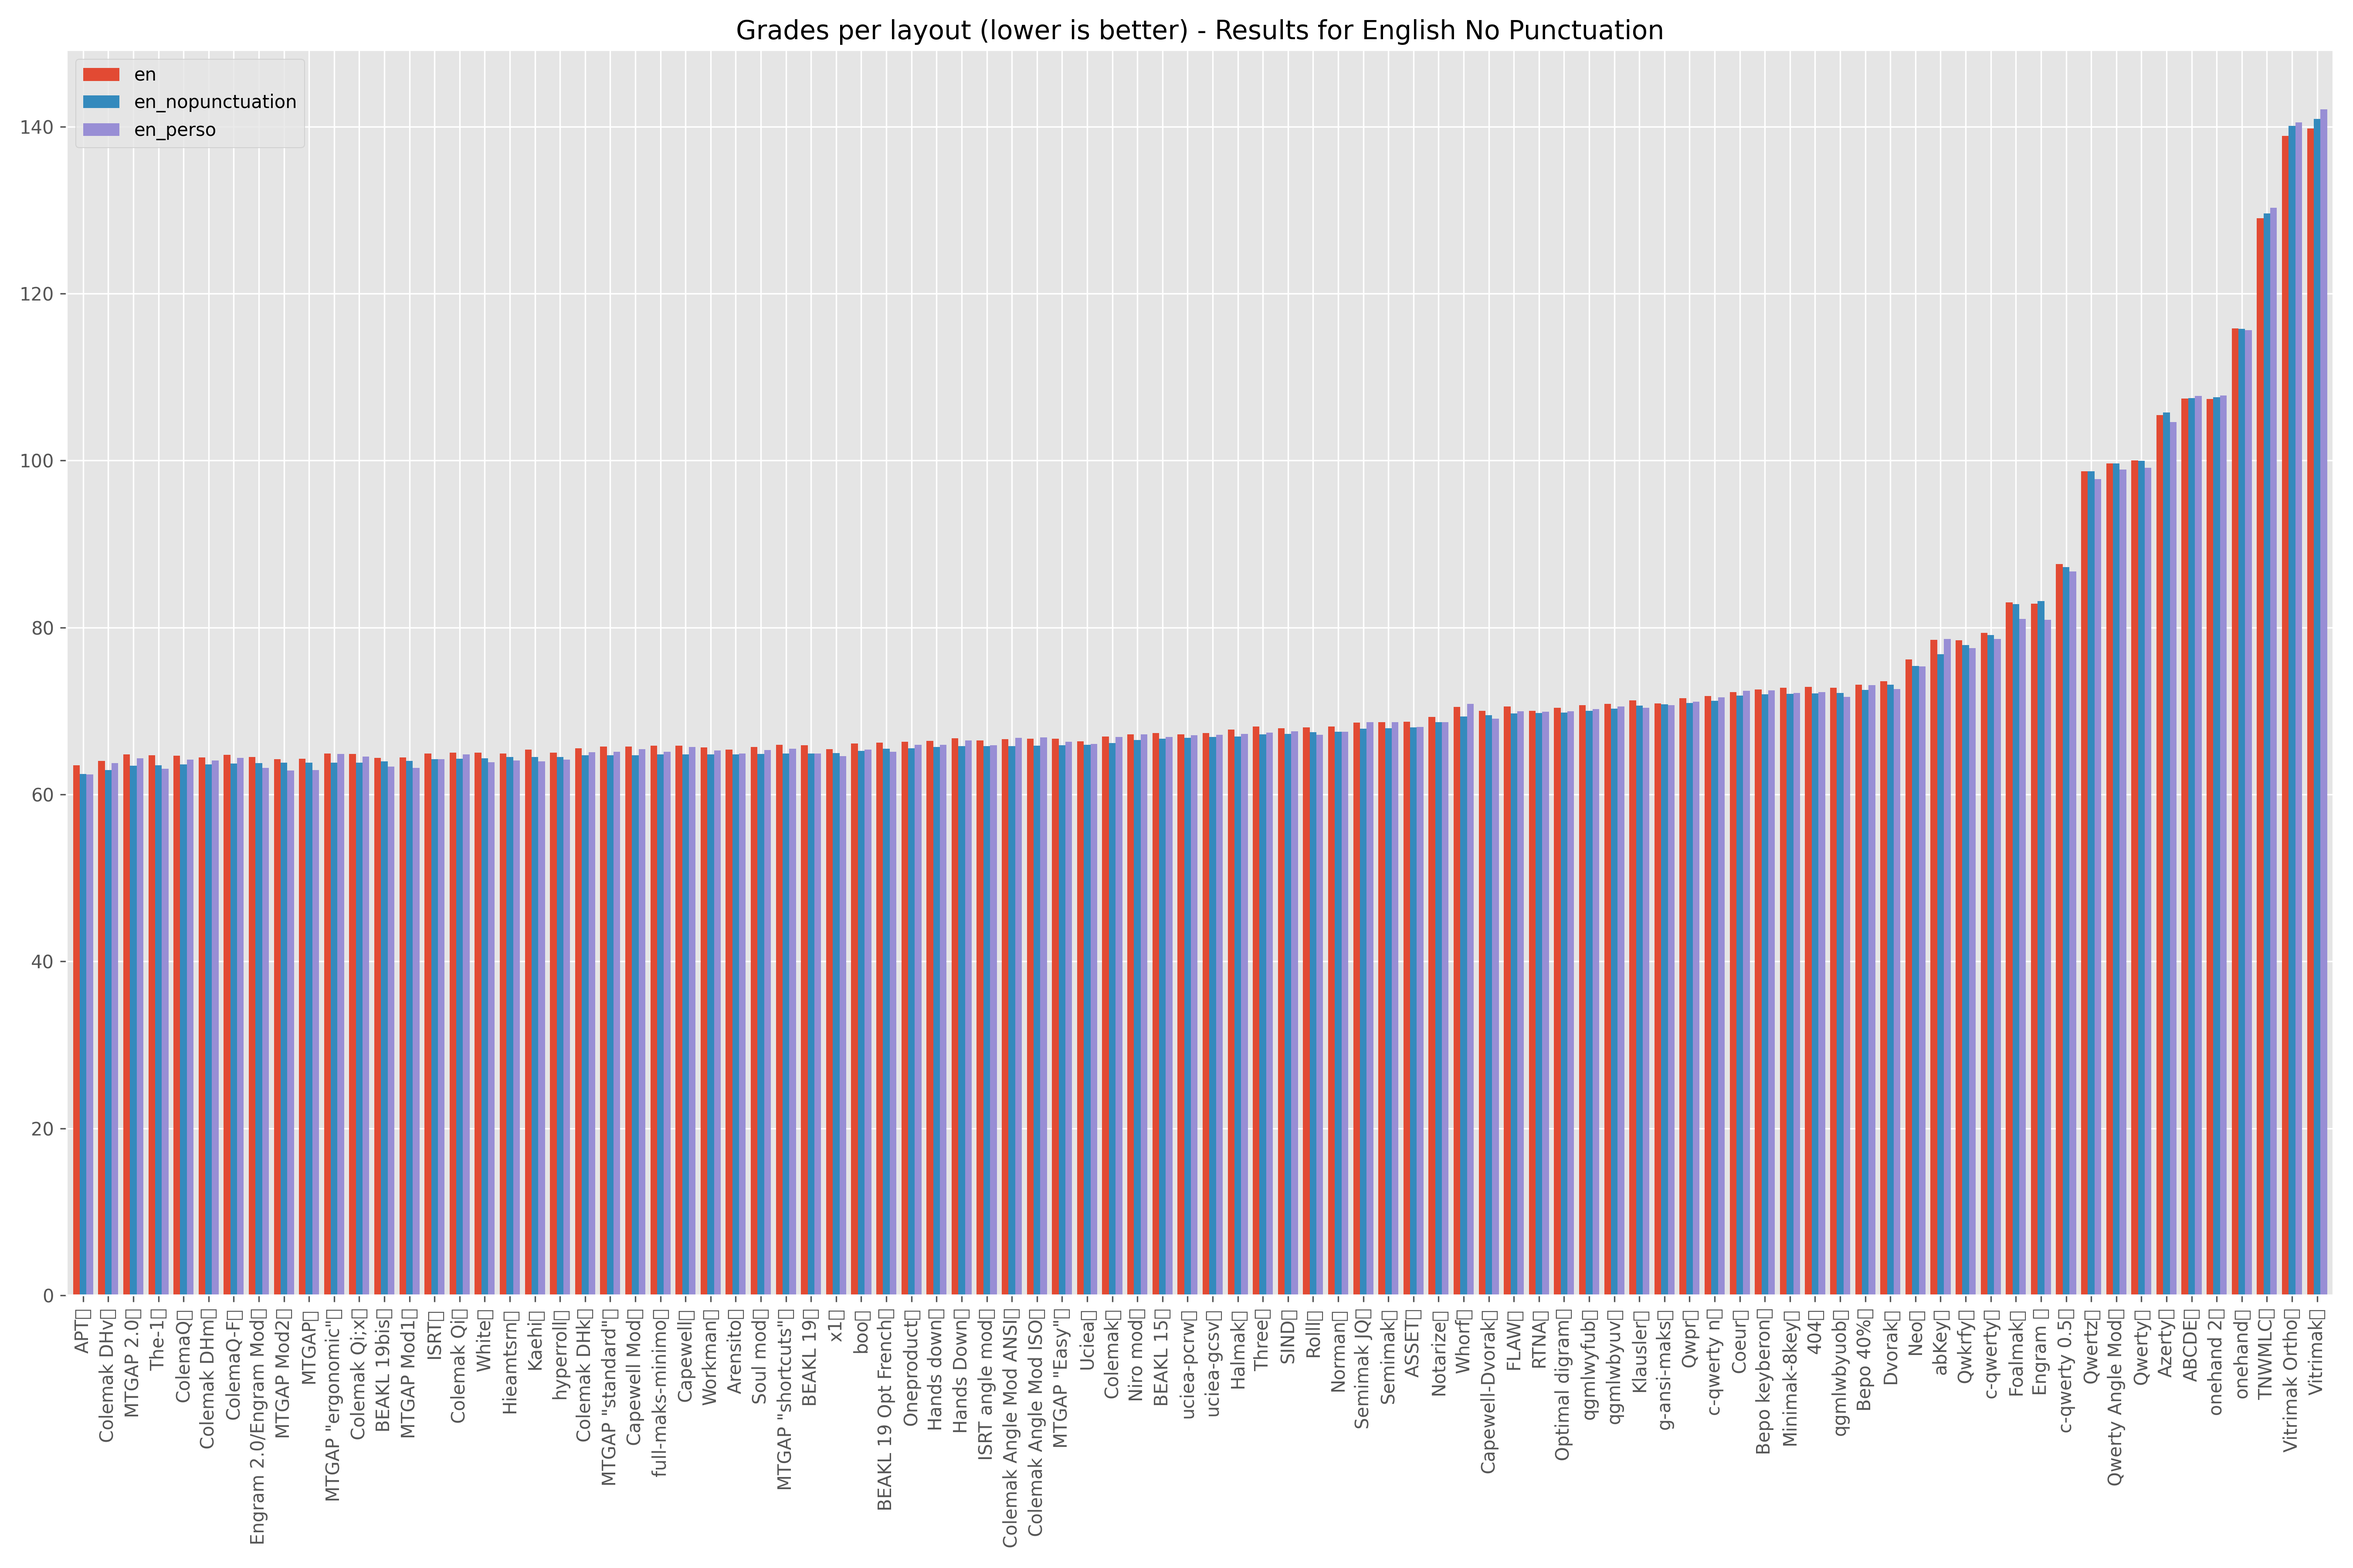
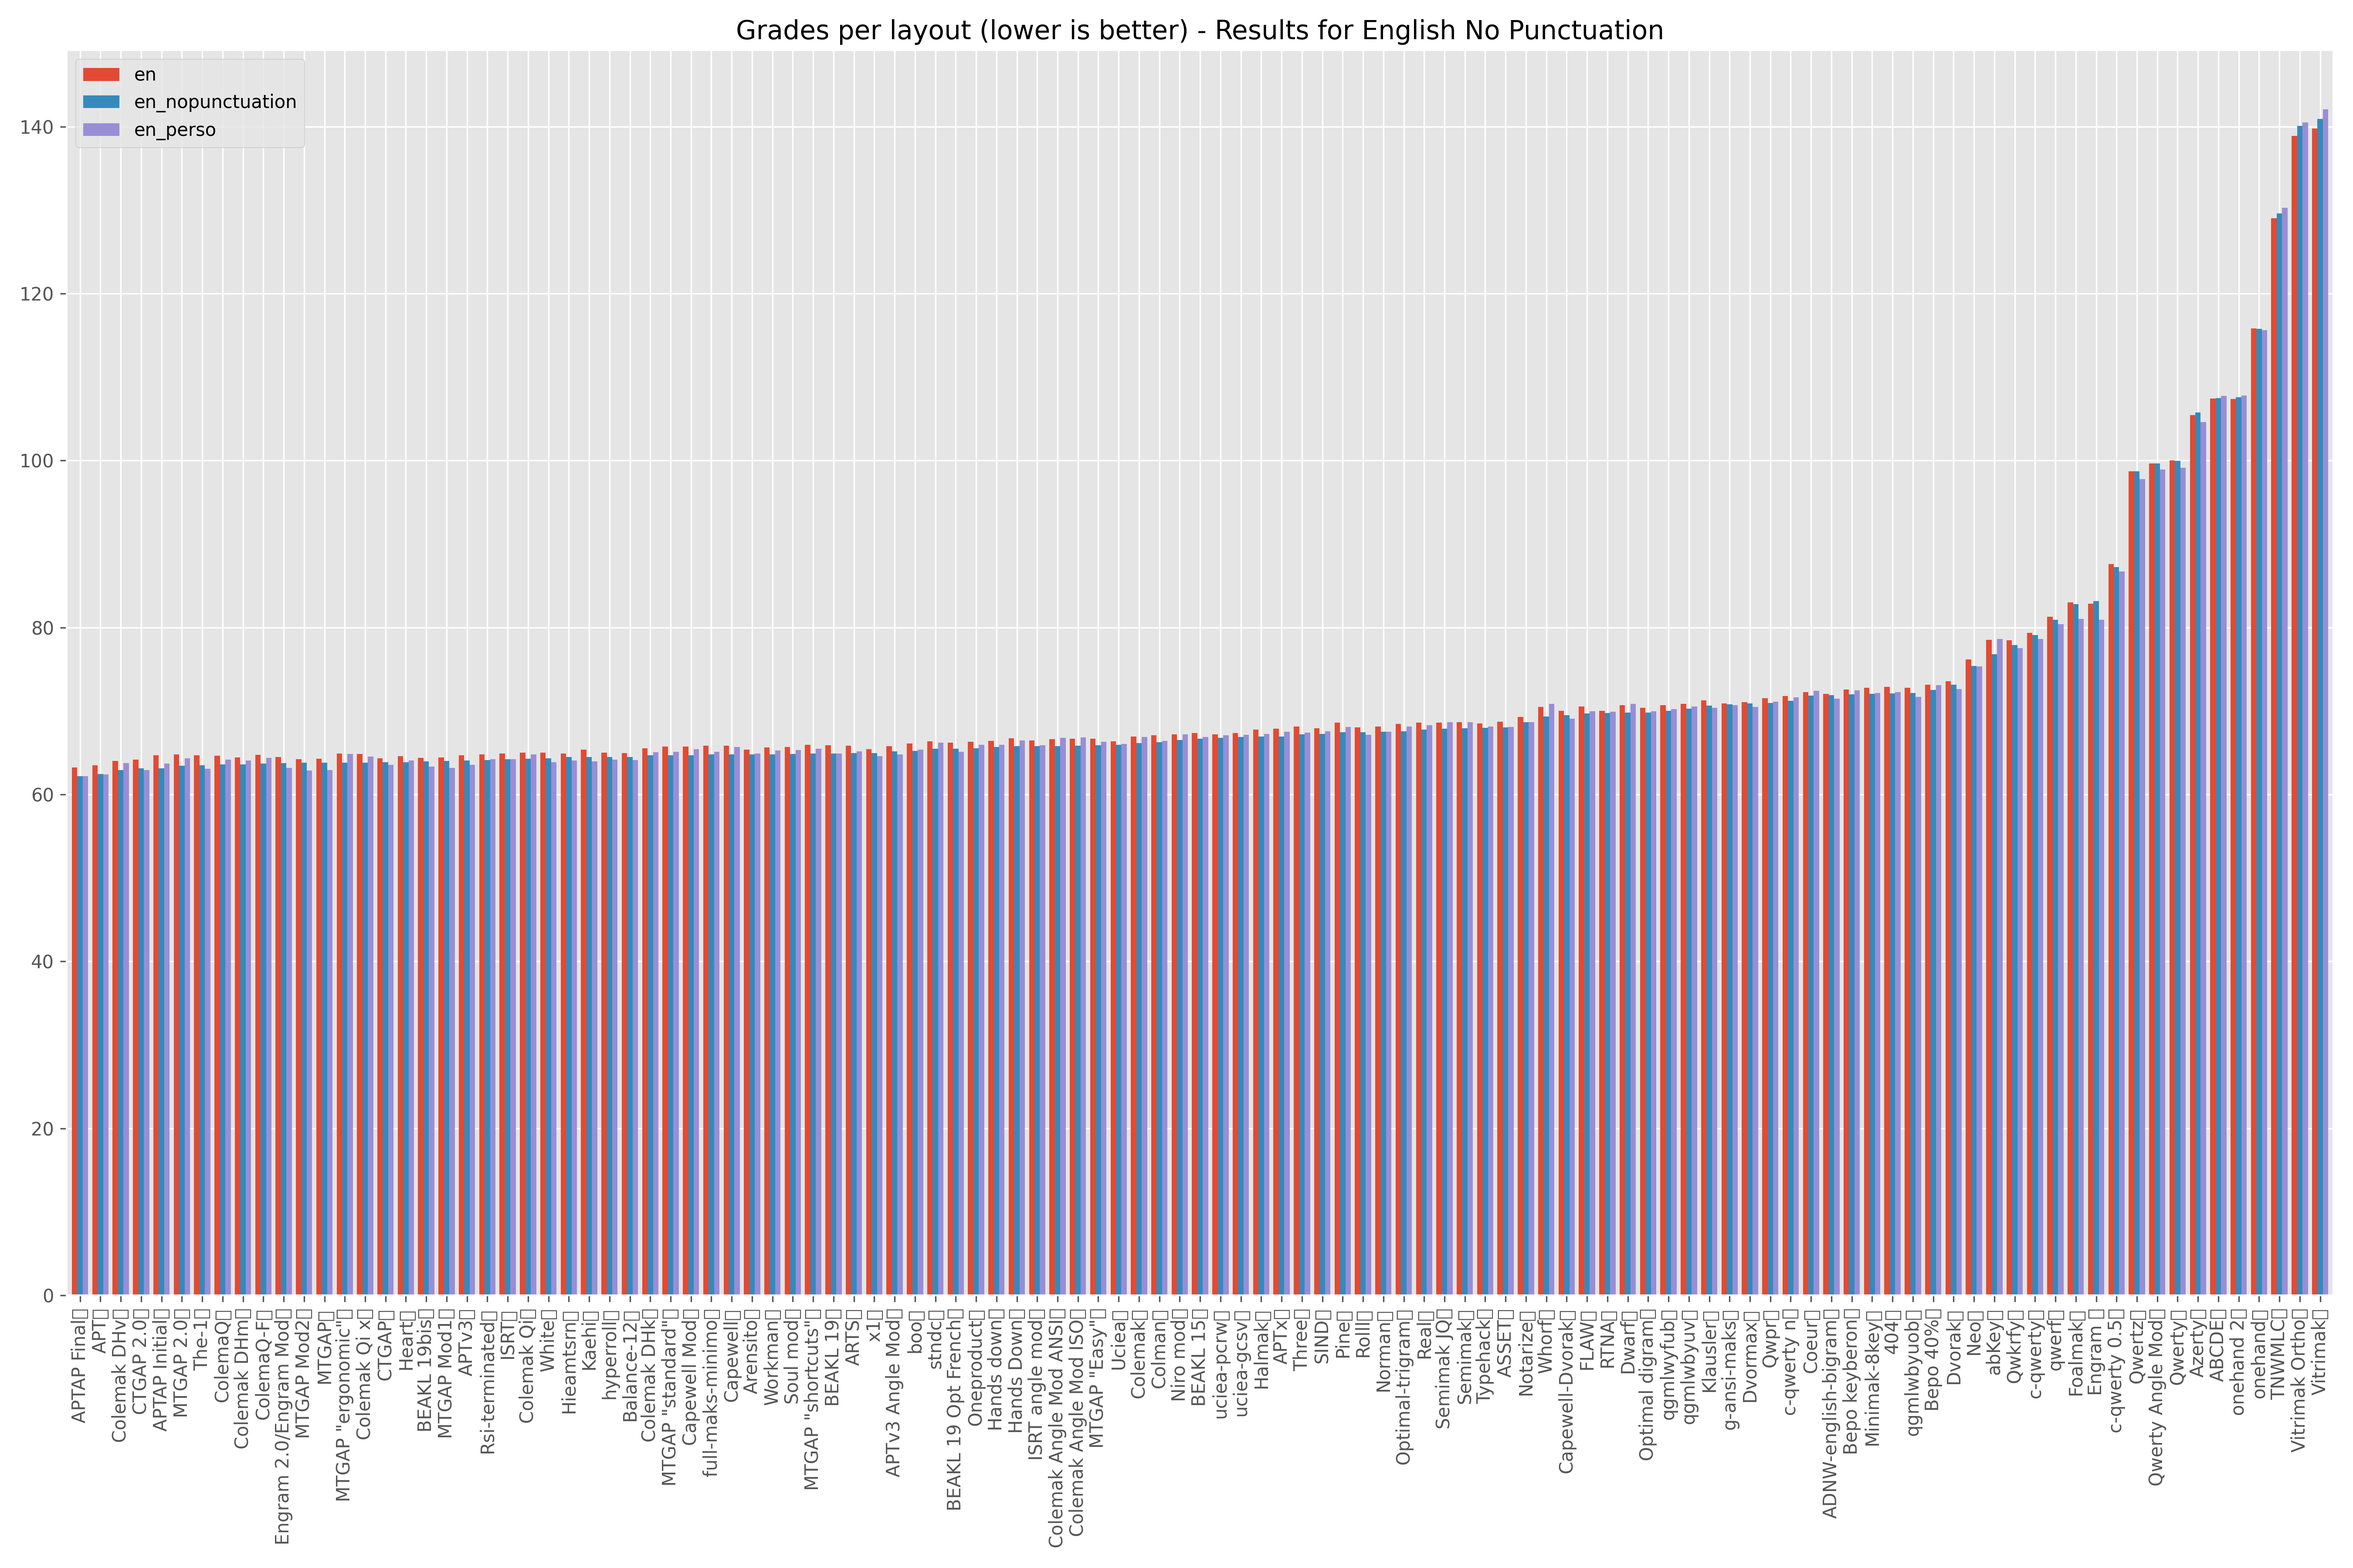
Add more layouts

diff --git a/README.md b/README.md
@@ -232,24 +232,32 @@ Here is the complete results list. The layouts can be seen in `config.txt`.
 
 | Layout | English | English perso | English No Punctuation | English Avg | French | French perso | Spanish | German | Swedish | Full Avg |
 | :-------------------------------------------------------------------------------------------------------------------------------------------- | ------: | ------------: | -----: | -----------: | ------: | -----: | ------: | ------: | ------: | ------: |
+| APTAP Final | 63.23 | 62.20 | 62.20 | 62.543333 | 65.27 | 65.64 | 65.48 | 63.55 | 65.28 | 64.461667 |
 | APT | 63.50 | 62.43 | 62.47 | 62.800000 | 65.84 | 66.41 | 65.94 | 63.26 | 65.79 | 64.783000 |
 | Colemak DHv | 64.04 | 63.75 | 62.94 | 63.576667 | 63.78 | 63.53 | 63.28 | 64.65 | 67.05 | 64.442333 |
+| CTGAP 2.0 | 64.17 | 62.92 | 63.13 | 63.406667 | 66.02 | 66.49 | 66.76 | 65.69 | 67.05 | 65.832333 |
 | MTGAP Mod2 | 64.23 | 62.88 | 63.80 | 63.636667 | 65.92 | 65.99 | 66.32 | 67.33 | 67.56 | 66.160333 |
 | MTGAP | 64.26 | 62.91 | 63.80 | 63.656667 | 66.21 | 66.29 | 66.32 | 67.33 | 67.56 | 66.223333 |
+| CTGAP | 64.36 | 63.56 | 63.85 | 63.923333 | 65.06 | 64.45 | 65.12 | 66.57 | 67.90 | 65.653667 |
 | BEAKL 19bis | 64.41 | 63.36 | 63.97 | 63.913333 | 65.14 | 64.31 | 64.62 | 68.10 | 69.18 | 66.107667 |
 | Colemak DHm | 64.45 | 64.08 | 63.61 | 64.046667 | 64.33 | 64.30 | 64.35 | 64.87 | 68.34 | 65.184333 |
 | MTGAP Mod1 | 64.46 | 63.17 | 64.03 | 63.886667 | 66.73 | 67.09 | 67.26 | 67.72 | 67.65 | 66.685333 |
 | Engram 2.0/Engram Mod | 64.47 | 63.17 | 63.78 | 63.806667 | 67.66 | 67.41 | 66.70 | 69.30 | 69.65 | 67.398333 |
+| Heart | 64.60 | 64.05 | 63.86 | 64.170000 | 69.00 | 69.27 | 67.63 | 67.47 | 67.16 | 67.113000 |
 | ColemaQ | 64.66 | 64.18 | 63.58 | 64.140000 | 64.56 | 64.49 | 64.35 | 64.79 | 68.08 | 65.177000 |
+| APTv3 | 64.70 | 63.56 | 64.08 | 64.113333 | 65.99 | 66.58 | 66.74 | 64.85 | 66.03 | 65.603667 |
+| APTAP Initial | 64.70 | 63.70 | 63.13 | 63.843333 | 67.22 | 67.82 | 66.94 | 63.66 | 65.23 | 65.438667 |
 | The-1 | 64.70 | 63.06 | 63.49 | 63.750000 | 69.47 | 69.17 | 69.15 | 67.71 | 70.45 | 68.076000 |
 | ColemaQ-F | 64.75 | 64.37 | 63.70 | 64.273333 | 64.53 | 64.59 | 64.16 | 64.36 | 67.62 | 64.994667 |
+| Rsi-terminated | 64.81 | 64.21 | 64.11 | 64.376667 | 64.56 | 64.21 | 63.67 | 66.20 | 67.64 | 65.254333 |
 | MTGAP 2.0 | 64.83 | 64.34 | 63.46 | 64.210000 | 63.83 | 62.94 | 64.18 | 65.15 | 66.95 | 64.775000 |
-| Colemak Qi;x | 64.87 | 64.54 | 63.84 | 64.416667 | 64.93 | 64.53 | 64.68 | 64.44 | 67.98 | 65.249333 |
-| Hieamtsrn | 64.90 | 64.07 | 64.48 | 64.483333 | 67.00 | 66.28 | 66.03 | 67.42 | 68.48 | 66.610667 |
+| Colemak Qi x | 64.87 | 64.54 | 63.84 | 64.416667 | 64.93 | 64.53 | 64.68 | 64.44 | 67.98 | 65.249333 |
 | MTGAP "ergonomic" | 64.90 | 64.85 | 63.83 | 64.526667 | 65.94 | 65.98 | 64.98 | 66.41 | 66.90 | 65.755333 |
+| Hieamtsrn | 64.90 | 64.07 | 64.48 | 64.483333 | 67.00 | 66.28 | 66.03 | 67.42 | 68.48 | 66.610667 |
 | ISRT | 64.93 | 64.22 | 64.22 | 64.456667 | 63.76 | 63.03 | 63.27 | 65.07 | 65.72 | 64.382333 |
-| hyperroll | 65.01 | 64.20 | 64.51 | 64.573333 | 66.40 | 65.56 | 66.49 | 68.09 | 69.26 | 66.878667 |
+| Balance-12 | 64.94 | 64.14 | 64.51 | 64.530000 | 67.02 | 66.21 | 65.97 | 67.29 | 68.67 | 66.615000 |
 | White | 65.01 | 63.88 | 64.35 | 64.413333 | 70.24 | 71.06 | 68.27 | 66.68 | 69.73 | 67.948667 |
+| hyperroll | 65.01 | 64.20 | 64.51 | 64.573333 | 66.40 | 65.56 | 66.49 | 68.09 | 69.26 | 66.878667 |
 | Colemak Qi | 65.02 | 64.78 | 64.26 | 64.686667 | 65.40 | 65.12 | 65.69 | 64.80 | 68.45 | 65.777333 |
 | Kaehi | 65.36 | 63.95 | 64.50 | 64.603333 | 66.10 | 65.62 | 66.09 | 68.01 | 68.12 | 66.536667 |
 | Arensito | 65.39 | 64.92 | 64.82 | 65.043333 | 65.03 | 64.21 | 66.23 | 65.81 | 69.08 | 66.156667 |
@@ -259,13 +267,16 @@ Here is the complete results list. The layouts can be seen in `config.txt`.
 | Soul mod | 65.69 | 65.31 | 64.84 | 65.280000 | 65.79 | 65.33 | 64.88 | 64.55 | 68.55 | 65.764000 |
 | Capewell Mod | 65.75 | 65.45 | 64.71 | 65.303333 | 65.53 | 64.71 | 65.97 | 67.04 | 67.80 | 66.246667 |
 | MTGAP "standard" | 65.76 | 65.14 | 64.69 | 65.196667 | 65.11 | 64.57 | 64.60 | 66.95 | 66.91 | 65.699333 |
-| full-maks-minimo | 65.84 | 65.10 | 64.78 | 65.240000 | 67.87 | 67.55 | 68.45 | 67.98 | 67.46 | 67.368000 |
+| APTv3 Angle Mod | 65.78 | 64.80 | 65.17 | 65.250000 | 67.32 | 67.40 | 68.46 | 65.53 | 65.60 | 66.440000 |
 | Capewell | 65.84 | 65.68 | 64.79 | 65.436667 | 65.47 | 64.62 | 66.02 | 67.06 | 67.95 | 66.302333 |
+| full-maks-minimo | 65.84 | 65.10 | 64.78 | 65.240000 | 67.87 | 67.55 | 68.45 | 67.98 | 67.46 | 67.368000 |
+| ARTS | 65.87 | 65.18 | 64.95 | 65.333333 | 68.23 | 68.53 | 68.94 | 65.51 | 68.50 | 67.332667 |
 | BEAKL 19 | 65.89 | 64.89 | 64.92 | 65.233333 | 66.21 | 64.90 | 66.30 | 67.17 | 69.04 | 66.659667 |
 | MTGAP "shortcuts" | 65.94 | 65.49 | 64.91 | 65.446667 | 64.44 | 64.14 | 62.88 | 65.61 | 66.52 | 64.949333 |
 | boo | 66.13 | 65.39 | 65.22 | 65.580000 | 66.84 | 66.14 | 65.55 | 67.74 | 68.77 | 66.826000 |
 | BEAKL 19 Opt French | 66.23 | 65.13 | 65.49 | 65.616667 | 65.81 | 64.69 | 66.02 | 65.48 | 69.50 | 66.373333 |
 | Oneproduct | 66.32 | 65.93 | 65.55 | 65.933333 | 69.27 | 69.06 | 68.25 | 68.63 | 69.40 | 68.275667 |
+| stndc | 66.37 | 66.21 | 65.46 | 66.013333 | 68.81 | 70.25 | 66.51 | 65.30 | 66.04 | 66.678667 |
 | Uciea | 66.39 | 66.08 | 65.94 | 66.136667 | 65.90 | 65.79 | 65.19 | 66.16 | 68.50 | 66.366333 |
 | Hands down | 66.43 | 65.97 | 65.68 | 66.026667 | 65.05 | 63.98 | 66.27 | 63.31 | 66.83 | 65.390333 |
 | ISRT angle mod | 66.48 | 65.89 | 65.79 | 66.053333 | 64.89 | 64.22 | 64.72 | 66.57 | 67.32 | 65.843667 |
@@ -274,16 +285,22 @@ Here is the complete results list. The layouts can be seen in `config.txt`.
 | Colemak Angle Mod ISO | 66.70 | 66.82 | 65.87 | 66.463333 | 65.09 | 64.44 | 65.77 | 67.19 | 68.32 | 66.501667 |
 | Hands Down | 66.71 | 66.46 | 65.78 | 66.316667 | 63.48 | 62.16 | 65.33 | 65.44 | 68.37 | 65.655333 |
 | Colemak | 66.96 | 66.87 | 66.14 | 66.656667 | 64.88 | 64.08 | 65.54 | 67.95 | 69.01 | 66.727333 |
+| Colman | 67.12 | 66.40 | 66.28 | 66.600000 | 68.59 | 68.26 | 69.22 | 69.66 | 72.89 | 69.359000 |
 | uciea-pcrw | 67.19 | 67.09 | 66.78 | 67.020000 | 66.25 | 65.97 | 66.24 | 66.79 | 68.98 | 67.028000 |
 | Niro mod | 67.22 | 67.18 | 66.54 | 66.980000 | 67.10 | 66.54 | 66.76 | 67.88 | 70.60 | 67.808000 |
 | uciea-gcsv | 67.36 | 67.16 | 66.90 | 67.140000 | 67.02 | 66.44 | 66.73 | 68.27 | 71.58 | 68.090000 |
 | BEAKL 15 | 67.37 | 66.90 | 66.66 | 66.976667 | 67.61 | 66.33 | 66.82 | 69.55 | 68.77 | 67.817333 |
 | Halmak | 67.76 | 67.25 | 66.94 | 67.316667 | 67.85 | 67.49 | 67.04 | 69.78 | 70.86 | 68.533333 |
+| APTx | 67.87 | 67.50 | 66.96 | 67.443333 | 69.54 | 69.15 | 69.06 | 66.48 | 70.52 | 68.569667 |
 | SIND | 67.92 | 67.56 | 67.26 | 67.580000 | 67.88 | 69.32 | 67.18 | 69.57 | 68.62 | 68.310000 |
 | Rolll | 68.02 | 67.15 | 67.49 | 67.553333 | 69.67 | 69.55 | 71.10 | 67.92 | 71.77 | 69.590667 |
 | Three | 68.12 | 67.39 | 67.19 | 67.566667 | 70.35 | 70.03 | 69.64 | 71.19 | 71.14 | 69.945333 |
 | Norman | 68.17 | 67.54 | 67.51 | 67.740000 | 70.92 | 69.92 | 71.43 | 70.05 | 72.29 | 70.386000 |
+| Optimal-trigram | 68.44 | 68.13 | 67.59 | 68.053333 | 67.01 | 67.42 | 65.66 | 70.07 | 67.81 | 67.761667 |
+| Typehack | 68.49 | 68.14 | 67.99 | 68.206667 | 67.38 | 67.30 | 68.75 | 68.18 | 66.92 | 67.879333 |
 | Semimak JQ | 68.59 | 68.64 | 67.86 | 68.363333 | 68.55 | 69.22 | 68.33 | 64.81 | 66.89 | 67.455667 |
+| Real | 68.59 | 68.31 | 67.78 | 68.226667 | 67.59 | 66.90 | 67.97 | 66.08 | 66.83 | 67.270333 |
+| Pine | 68.63 | 68.08 | 67.44 | 68.050000 | 69.63 | 70.24 | 67.42 | 69.27 | 70.64 | 69.063000 |
 | Semimak | 68.66 | 68.66 | 67.93 | 68.416667 | 68.41 | 69.23 | 68.39 | 64.92 | 67.12 | 67.533333 |
 | ASSET | 68.70 | 68.08 | 68.03 | 68.270000 | 66.00 | 64.69 | 66.87 | 70.54 | 71.21 | 68.447000 |
 | Notarize | 69.28 | 68.64 | 68.67 | 68.863333 | 67.46 | 66.06 | 67.86 | 69.40 | 68.11 | 68.198667 |
@@ -293,11 +310,14 @@ Here is the complete results list. The layouts can be seen in `config.txt`.
 | Whorf | 70.48 | 70.88 | 69.35 | 70.236667 | 73.67 | 74.09 | 70.48 | 69.69 | 72.09 | 71.275333 |
 | FLAW | 70.56 | 69.97 | 69.73 | 70.086667 | 73.63 | 74.19 | 73.18 | 72.85 | 74.61 | 72.927333 |
 | qgmlwyfub | 70.68 | 70.22 | 70.04 | 70.313333 | 71.86 | 72.89 | 70.43 | 72.35 | 73.91 | 71.875667 |
+| Dwarf | 70.72 | 70.88 | 69.82 | 70.473333 | 72.08 | 71.92 | 72.05 | 68.42 | 70.60 | 70.708667 |
 | qgmlwbyuv | 70.87 | 70.53 | 70.29 | 70.563333 | 72.24 | 73.41 | 71.05 | 74.19 | 74.72 | 72.669667 |
 | g-ansi-maks | 70.93 | 70.68 | 70.78 | 70.796667 | 70.82 | 70.85 | 72.58 | 69.10 | 72.93 | 71.248333 |
+| Dvormax | 71.05 | 70.50 | 70.92 | 70.823333 | 68.32 | 69.06 | 69.18 | 70.90 | 73.21 | 70.560667 |
 | Klausler | 71.29 | 70.37 | 70.65 | 70.770000 | 73.26 | 72.25 | 74.27 | 73.34 | 74.15 | 73.057000 |
 | Qwpr | 71.52 | 71.11 | 70.97 | 71.200000 | 70.07 | 70.23 | 69.62 | 73.26 | 71.88 | 71.222000 |
 | c-qwerty n | 71.77 | 71.62 | 71.22 | 71.536667 | 69.49 | 68.15 | 70.26 | 73.02 | 75.48 | 71.823333 |
+| ADNW-english-bigram | 72.07 | 71.50 | 71.89 | 71.820000 | 70.26 | 70.19 | 71.04 | 71.33 | 73.05 | 71.493000 |
 | Coeur | 72.27 | 72.43 | 71.86 | 72.186667 | 64.89 | 63.67 | 67.25 | 71.23 | 73.67 | 69.723333 |
 | Bepo keyberon | 72.59 | 72.50 | 72.00 | 72.363333 | 66.58 | 65.30 | 68.71 | 72.26 | 73.69 | 70.592667 |
 | Minimak-8key | 72.77 | 72.17 | 72.08 | 72.340000 | 71.48 | 70.74 | 72.13 | 75.40 | 73.74 | 72.944000 |
@@ -309,6 +329,7 @@ Here is the complete results list. The layouts can be seen in `config.txt`.
 | Qwkrfy | 78.45 | 77.54 | 77.91 | 77.966667 | 75.61 | 76.30 | 73.80 | 82.63 | 78.04 | 77.678333 |
 | abKey | 78.54 | 78.64 | 76.82 | 78.000000 | 77.43 | 78.68 | 74.23 | 79.46 | 79.87 | 77.923000 |
 | c-qwerty | 79.35 | 78.61 | 79.09 | 79.016667 | 77.08 | 75.57 | 78.21 | 84.85 | 84.70 | 80.620333 |
+| qwerf | 81.27 | 80.42 | 80.90 | 80.863333 | 79.97 | 78.82 | 79.04 | 87.53 | 84.61 | 82.287667 |
 | Engram | 82.88 | 80.94 | 83.16 | 82.326667 | 88.13 | 88.39 | 89.56 | 89.71 | 95.44 | 89.059333 |
 | Foalmak | 83.03 | 81.04 | 82.78 | 82.283333 | 86.24 | 84.86 | 82.64 | 87.82 | 87.67 | 85.192667 |
 | c-qwerty 0.5 | 87.58 | 86.71 | 87.26 | 87.183333 | 85.42 | 83.16 | 84.04 | 89.88 | 91.07 | 87.292667 |
